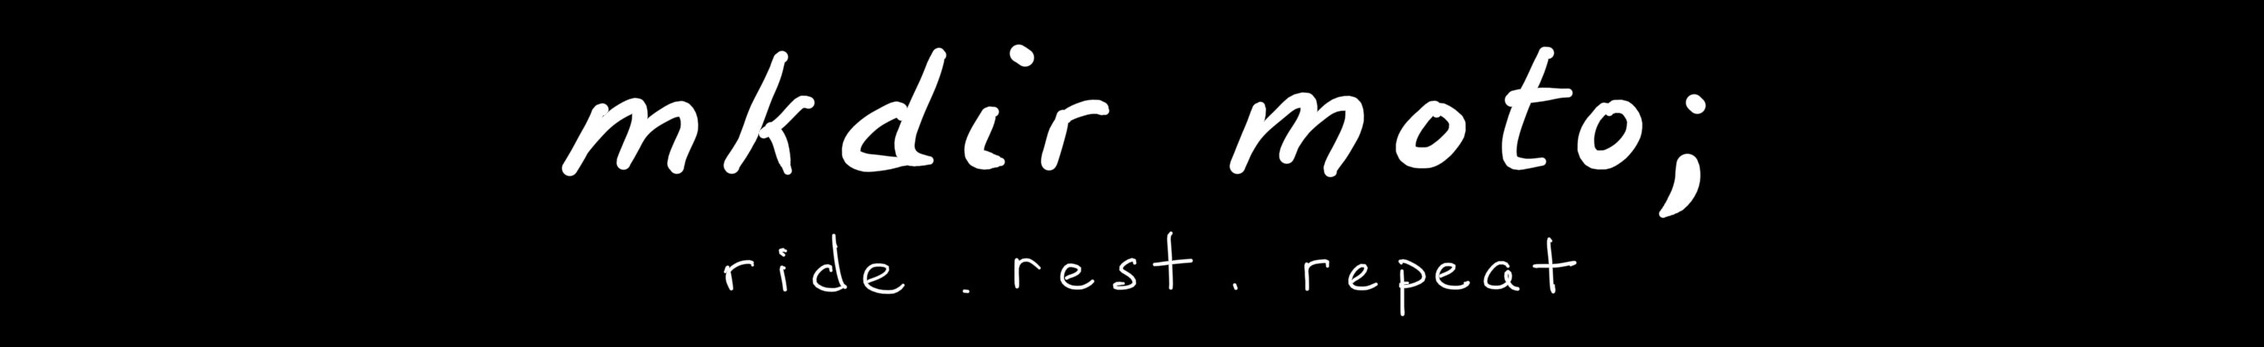
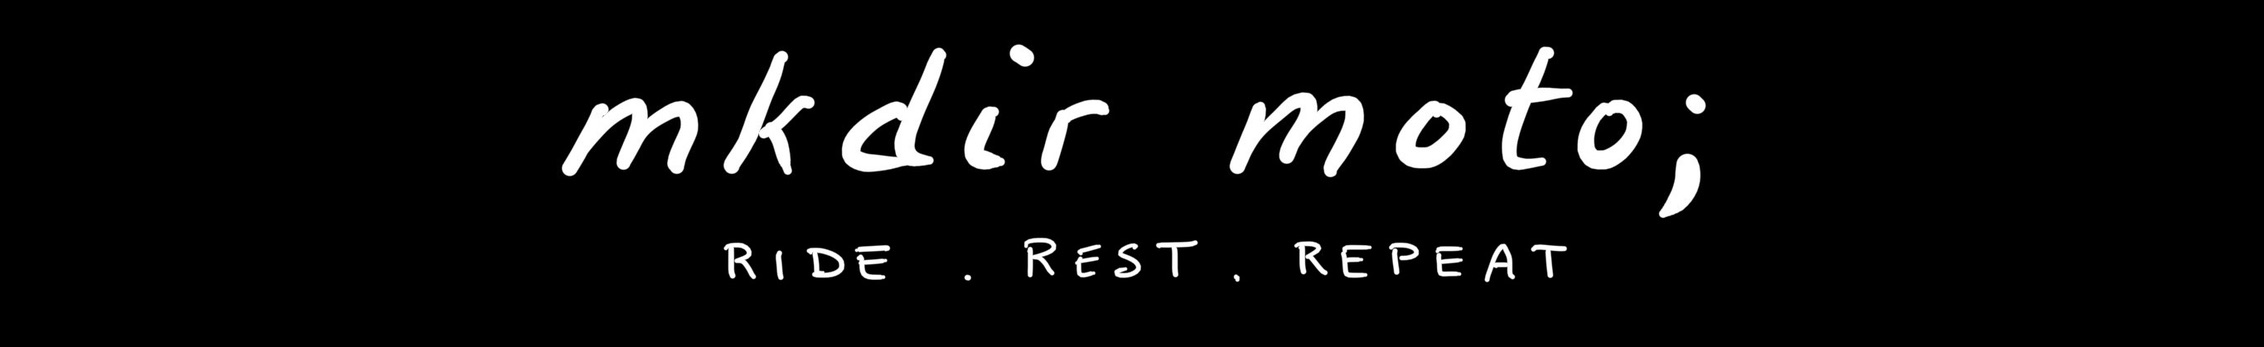
header sub font change

Changed region(s): [[0.5565, 0.6916, 0.7111, 0.8357], [0.3092, 0.6916, 0.4019, 0.8646], [0.4329, 0.6916, 0.5256, 0.8357]]

diff --git a/ngMkdirMoto/src/app/components/motorcycle-list/motorcycle-list.component.html b/ngMkdirMoto/src/app/components/motorcycle-list/motorcycle-list.component.html
@@ -94,7 +94,7 @@
         <div *ngFor="let motorcycle of motorcycles">
           <button (click)="motorcycleClick(motorcycle)" >{{motorcycle.name}}</button><br>
         </div>
-        <img id="view-image-motoLeft" src="/assets/images/motoFaceRight.jpeg" />
+        <img id="view-image-motoLeft" src="/assets/images/motoFaceRightBorder.jpeg" />
       </div>
         <br>
         <br>
